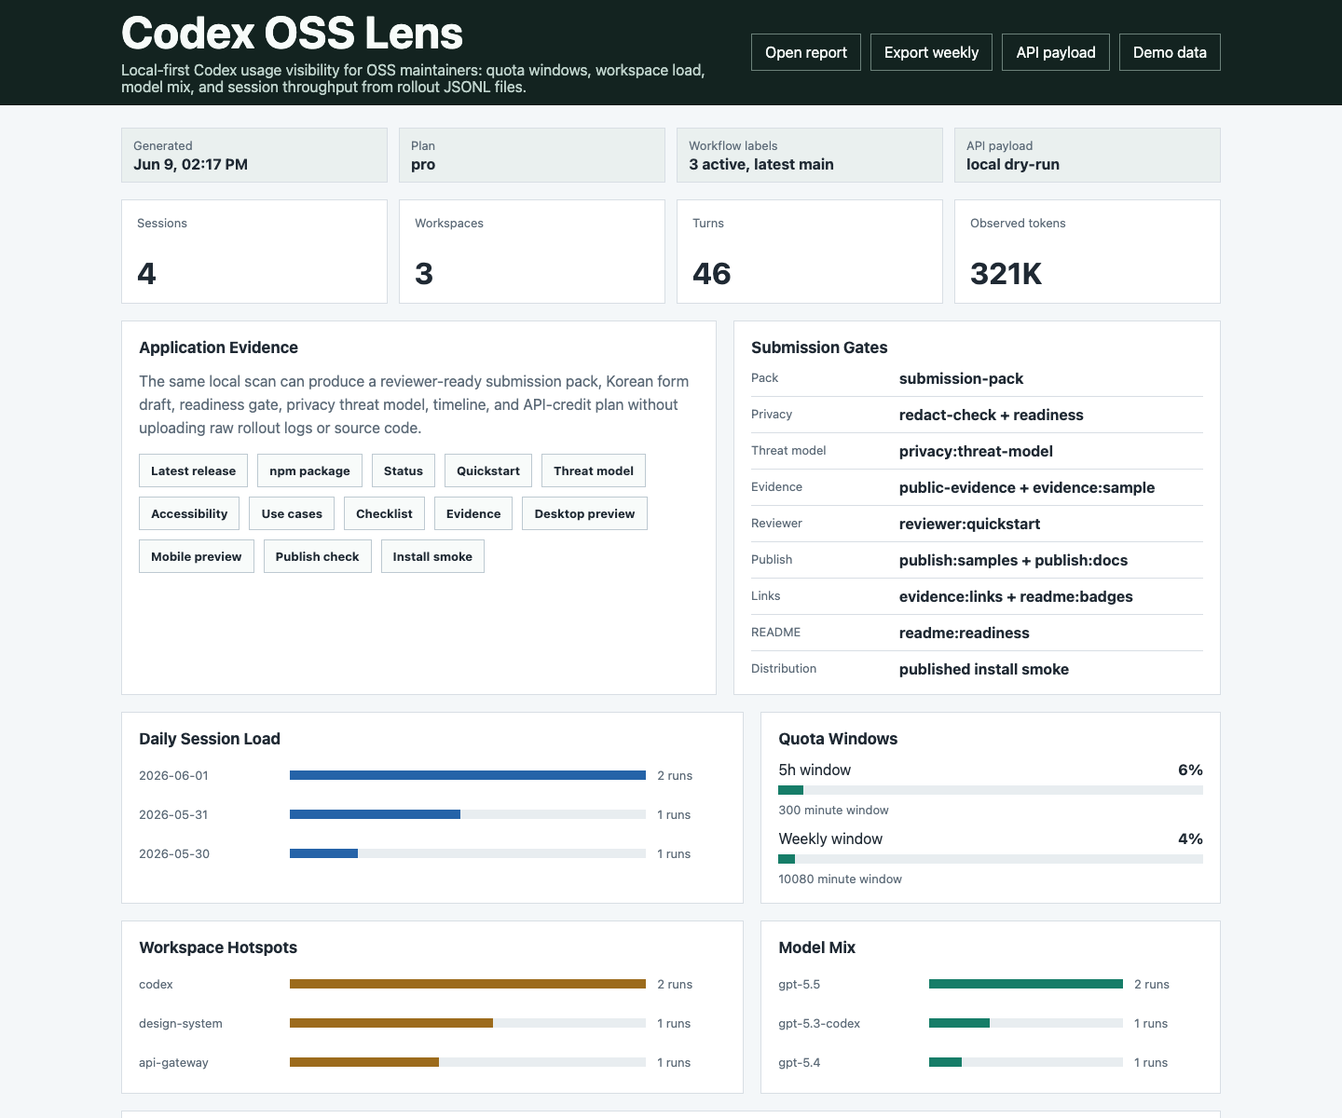
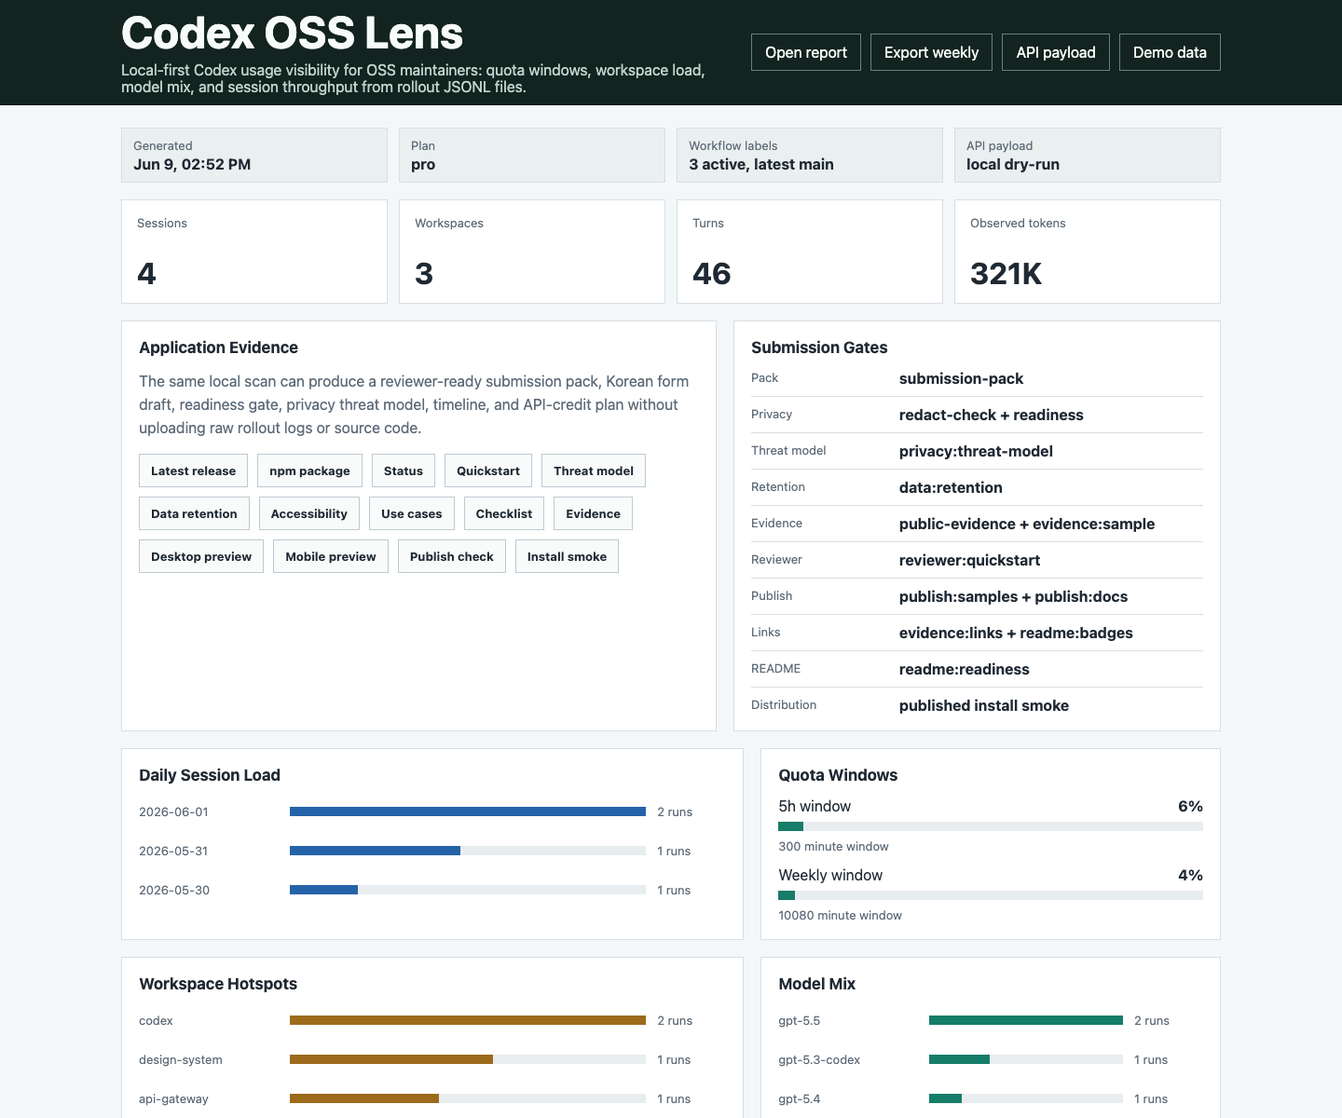
Make data retention reviewable
The privacy model now explains what must not leave the machine, but reviewers also need a clear local-retention and deletion boundary for generated reports, screenshots, packs, and future API responses. This change adds a public data retention policy, makes it first-class reviewer evidence, exposes it in the dashboard, and checks it through CI/submission gates.

Constraint: The project is local-first and dependency-free, so retention checks are repository-owned documentation and structural gates rather than external scanners.

Constraint: Local 1Password SSH signing agent remains unreliable, so this automation commit is unsigned.

Rejected: Fold retention language into the privacy threat model | separate deletion/storage guidance is easier for reviewers and future maintainers to audit.

Confidence: high

Scope-risk: moderate

Directive: Keep docs/data-retention.md, public evidence links, dashboard evidence links, and data:retention aligned whenever generated artifact storage or deletion behavior changes.

Tested: npm run data:retention && npm run dashboard:readiness && npm run evidence:sample && npm run form-draft:sample && npm run final-copy:check && npm run application:status && npm run reviewer:quickstart && npm run publish:docs && npm run readme:readiness && npm run ci:readiness && npm test
[…]

diff --git a/src/cli.js b/src/cli.js
@@ -185,6 +185,7 @@ async function main() {
         adoptionPlanUrl: options.adoptionPlanUrl,
         maintenancePolicyUrl: options.maintenancePolicyUrl,
         privacyThreatModelUrl: options.privacyThreatModelUrl,
+        dataRetentionUrl: options.dataRetentionUrl,
         accessibilityUrl: options.accessibilityUrl,
         apiWorkflowUrl: options.apiWorkflowUrl,
         useCasesUrl: options.useCasesUrl,
@@ -278,6 +279,7 @@ function parseArgs(args) {
     else if (arg === "--adoption-plan-url") options.adoptionPlanUrl = args[++i];
     else if (arg === "--maintenance-policy-url") options.maintenancePolicyUrl = args[++i];
     else if (arg === "--privacy-threat-model-url") options.privacyThreatModelUrl = args[++i];
+    else if (arg === "--data-retention-url") options.dataRetentionUrl = args[++i];
     else if (arg === "--accessibility-url") options.accessibilityUrl = args[++i];
     else if (arg === "--api-workflow-url") options.apiWorkflowUrl = args[++i];
     else if (arg === "--npm-package") options.npmPackage = args[++i];
@@ -387,11 +389,11 @@ Usage:
   codex-oss-lens scorecard --manifest manifest.json [--readiness readiness.json] [--api-plan api-plan.json] [--timeline timeline.json] [--out scorecard.json] [--markdown scorecard.md]
   codex-oss-lens evidence-index --manifest manifest.json [--readiness readiness.json] [--api-plan api-plan.json] [--timeline timeline.json] [--scorecard scorecard.json] [--form-draft form-draft.json] [--out evidence-index.json] [--markdown evidence-index.md] [--html evidence-index.html]
   codex-oss-lens submission-pack [--codex-home ~/.codex] [--repo owner/name] [--out-dir codex-submission-pack] [--demo]
-  codex-oss-lens form-draft --manifest manifest.json [--readiness readiness.json] [--api-plan api-plan.json] [--scorecard scorecard.json] [--repo url] [--release-url url] [--npm-package url] [--roadmap-url url] [--application-status-url url] [--reviewer-quickstart-url url] [--release-provenance-url url] [--adoption-plan-url url] [--maintenance-policy-url url] [--privacy-threat-model-url url] [--accessibility-url url] [--api-workflow-url url] [--use-cases-url url] [--final-checklist-url url] [--final-copy-url url] [--form-draft-sample-url url] [--public-evidence-sample-url url] [--dashboard-preview-url url] [--mobile-dashboard-preview-url url] [--publish-check-sample-url url] [--install-smoke-sample-url url] [--node-ci-url url] [--published-smoke-url url] [--out form-draft.json] [--markdown form-draft.md]
+  codex-oss-lens form-draft --manifest manifest.json [--readiness readiness.json] [--api-plan api-plan.json] [--scorecard scorecard.json] [--repo url] [--release-url url] [--npm-package url] [--roadmap-url url] [--application-status-url url] [--reviewer-quickstart-url url] [--release-provenance-url url] [--adoption-plan-url url] [--maintenance-policy-url url] [--privacy-threat-model-url url] [--data-retention-url url] [--accessibility-url url] [--api-workflow-url url] [--use-cases-url url] [--final-checklist-url url] [--final-copy-url url] [--form-draft-sample-url url] [--public-evidence-sample-url url] [--dashboard-preview-url url] [--mobile-dashboard-preview-url url] [--publish-check-sample-url url] [--install-smoke-sample-url url] [--node-ci-url url] [--published-smoke-url url] [--out form-draft.json] [--markdown form-draft.md]
   codex-oss-lens pack-validate <submission-pack-dir> [--min-score 75] [--out pack-validation.json] [--markdown pack-validation.md]
   codex-oss-lens publish-check [--package-json package.json] [--out publish-check.json] [--markdown publish-check.md]
   codex-oss-lens install-smoke [--package codex-oss-lens] [--version latest] [--bin codex-oss-lens] [--out install-smoke.json] [--markdown install-smoke.md]
-  codex-oss-lens public-evidence [--repo url] [--release-url url] [--npm-package url] [--roadmap-url url] [--application-status-url url] [--reviewer-quickstart-url url] [--release-provenance-url url] [--adoption-plan-url url] [--maintenance-policy-url url] [--privacy-threat-model-url url] [--accessibility-url url] [--api-workflow-url url] [--use-cases-url url] [--final-checklist-url url] [--final-copy-url url] [--form-draft-sample-url url] [--public-evidence-sample-url url] [--dashboard-preview-url url] [--mobile-dashboard-preview-url url] [--publish-check-sample-url url] [--install-smoke-sample-url url] [--node-ci-url url] [--published-smoke-url url] [--out public-evidence.json] [--markdown public-evidence.md]
+  codex-oss-lens public-evidence [--repo url] [--release-url url] [--npm-package url] [--roadmap-url url] [--application-status-url url] [--reviewer-quickstart-url url] [--release-provenance-url url] [--adoption-plan-url url] [--maintenance-policy-url url] [--privacy-threat-model-url url] [--data-retention-url url] [--accessibility-url url] [--api-workflow-url url] [--use-cases-url url] [--final-checklist-url url] [--final-copy-url url] [--form-draft-sample-url url] [--public-evidence-sample-url url] [--dashboard-preview-url url] [--mobile-dashboard-preview-url url] [--publish-check-sample-url url] [--install-smoke-sample-url url] [--node-ci-url url] [--published-smoke-url url] [--out public-evidence.json] [--markdown public-evidence.md]
   codex-oss-lens serve [--codex-home ~/.codex] [--port 5057] [--demo]
   codex-oss-lens demo [--out report.json]
 

diff --git a/test/public-evidence.test.js b/test/public-evidence.test.js
@@ -18,6 +18,7 @@ test("builds public evidence with required links and manual fields", () => {
   assert.match(evidence.publicLinks.adoptionPlanUrl, /docs\/adoption-plan\.md$/);
   assert.match(evidence.publicLinks.maintenancePolicyUrl, /docs\/maintenance-policy\.md$/);
   assert.match(evidence.publicLinks.privacyThreatModelUrl, /docs\/privacy-threat-model\.md$/);
+  assert.match(evidence.publicLinks.dataRetentionUrl, /docs\/data-retention\.md$/);
   assert.match(evidence.publicLinks.accessibilityUrl, /docs\/accessibility\.md$/);
   assert.ok(evidence.proofPoints.some((item) => item.id === "publishedSmoke"));
   assert.ok(evidence.proofPoints.some((item) => item.id === "applicationStatus"));
@@ -26,6 +27,7 @@ test("builds public evidence with required links and manual fields", () => {
   assert.ok(evidence.proofPoints.some((item) => item.id === "adoptionPlan"));
   assert.ok(evidence.proofPoints.some((item) => item.id === "maintenancePolicy"));
   assert.ok(evidence.proofPoints.some((item) => item.id === "privacyThreatModel"));
+  assert.ok(evidence.proofPoints.some((item) => item.id === "dataRetention"));
   assert.ok(evidence.proofPoints.some((item) => item.id === "accessibility"));
   assert.ok(evidence.proofPoints.some((item) => item.id === "finalChecklist"));
   assert.ok(evidence.proofPoints.some((item) => item.id === "finalCopy"));
@@ -77,6 +79,8 @@ test("CLI accepts reviewer link overrides for public evidence", async () => {
     "https://github.com/example/project/blob/main/docs/maintenance-policy.md",
     "--privacy-threat-model-url",
     "https://github.com/example/project/blob/main/docs/privacy-threat-model.md",
+    "--data-retention-url",
+    "https://github.com/example/project/blob/main/docs/data-retention.md",
     "--accessibility-url",
     "https://github.com/example/project/blob/main/docs/accessibility.md",
     "--api-workflow-url",
@@ -114,6 +118,7 @@ test("CLI accepts reviewer link overrides for public evidence", async () => {
   assert.equal(evidence.publicLinks.adoptionPlanUrl, "https://github.com/example/project/blob/main/docs/adoption-plan.md");
   assert.equal(evidence.publicLinks.maintenancePolicyUrl, "https://github.com/example/project/blob/main/docs/maintenance-policy.md");
   assert.equal(evidence.publicLinks.privacyThreatModelUrl, "https://github.com/example/project/blob/main/docs/privacy-threat-model.md");
+  assert.equal(evidence.publicLinks.dataRetentionUrl, "https://github.com/example/project/blob/main/docs/data-retention.md");
   assert.equal(evidence.publicLinks.accessibilityUrl, "https://github.com/example/project/blob/main/docs/accessibility.md");
   assert.equal(evidence.publicLinks.finalChecklistUrl, "https://github.com/example/project/blob/main/docs/final-submission-checklist.md");
   assert.equal(evidence.publicLinks.formDraftSampleUrl, "https://github.com/example/project/blob/main/examples/form-draft.sample.md");

diff --git a/scripts/check-data-retention-readiness.js b/scripts/check-data-retention-readiness.js
@@ -1,0 +1,52 @@
+#!/usr/bin/env node
+import { promises as fs } from "node:fs";
+
+const files = {
+  retention: await fs.readFile("docs/data-retention.md", "utf8"),
+  threatModel: await fs.readFile("docs/privacy-threat-model.md", "utf8"),
+  status: await fs.readFile("docs/application-status.md", "utf8"),
+  reviewer: await fs.readFile("docs/reviewer-quickstart.md", "utf8"),
+  checklist: await fs.readFile("docs/final-submission-checklist.md", "utf8"),
+  readme: await fs.readFile("README.md", "utf8"),
+  dashboard: await fs.readFile("public/index.html", "utf8"),
+  workflow: await fs.readFile(".github/workflows/test.yml", "utf8"),
+};
+
+let failures = 0;
+
+requireText("retention", "# Data Retention", "title");
+requireText("retention", "does not run a hosted service", "hosted-service boundary");
+requireText("retention", "does not move, upload, or delete", "local input boundary");
+requireText("retention", "Private full-path reports created with `--show-paths`", "private show-paths retention");
+requireText("retention", "Generated local reports are excluded from the npm package allowlist", "package allowlist boundary");
+requireText("retention", "npm run data:retention", "self gate command");
+requireText("retention", "npm run public:redaction", "public redaction command");
+requireText("retention", "Delete temporary `codex-brief/` or `codex-submission-pack/` folders", "temporary folder deletion");
+requireText("retention", "Do not commit generated artifacts outside the package allowlist", "commit boundary");
+requireText("threatModel", "docs/data-retention.md", "threat-model retention link");
+requireText("status", "Data retention | Ready", "application status row");
+requireText("status", "npm run data:retention", "application status command");
+requireText("reviewer", "docs/data-retention.md", "reviewer retention link");
+requireText("checklist", "docs/data-retention.md", "final checklist retention link");
+requireText("checklist", "npm run data:retention", "final checklist gate");
+requireText("readme", "docs/data-retention.md", "README retention link");
+requireText("readme", "npm run data:retention", "README retention gate");
+requireText("dashboard", "docs/data-retention.md", "dashboard retention link");
+requireText("dashboard", "data:retention", "dashboard retention gate");
+requireText("workflow", "npm run data:retention", "CI retention gate");
+
+if (failures) {
+  console.error(`Data retention readiness check failed for ${failures} requirement(s).`);
+  process.exit(1);
+}
+
+console.log("pass dataRetentionReadiness");
+
+function requireText(fileKey, needle, label) {
+  if (files[fileKey].includes(needle)) {
+    console.log(`pass ${label}`);
+    return;
+  }
+  console.error(`fail missing ${label}: ${needle}`);
+  failures += 1;
+}

diff --git a/src/public-evidence.js b/src/public-evidence.js
@@ -9,6 +9,7 @@ const DEFAULTS = {
   adoptionPlanUrl: "https://github.com/dbunk903/codex-oss-lens/blob/main/docs/adoption-plan.md",
   maintenancePolicyUrl: "https://github.com/dbunk903/codex-oss-lens/blob/main/docs/maintenance-policy.md",
   privacyThreatModelUrl: "https://github.com/dbunk903/codex-oss-lens/blob/main/docs/privacy-threat-model.md",
+  dataRetentionUrl: "https://github.com/dbunk903/codex-oss-lens/blob/main/docs/data-retention.md",
   accessibilityUrl: "https://github.com/dbunk903/codex-oss-lens/blob/main/docs/accessibility.md",
   apiWorkflowUrl: "https://github.com/dbunk903/codex-oss-lens/blob/main/docs/api-credit-workflow.md",
   useCasesUrl: "https://github.com/dbunk903/codex-oss-lens/blob/main/docs/maintainer-use-cases.md",
@@ -52,6 +53,7 @@ export function buildPublicEvidence(options = {}) {
       proof("adoptionPlan", "Adoption plan documents public validation without asking for private Codex content.", links.adoptionPlanUrl),
       proof("maintenancePolicy", "Maintenance policy documents triage cadence, release gates, and privacy boundaries.", links.maintenancePolicyUrl),
       proof("privacyThreatModel", "Privacy threat model records protected inputs, shareable outputs, and API opt-in boundaries.", links.privacyThreatModelUrl),
+      proof("dataRetention", "Data retention guidance documents local artifact storage, deletion, and public sharing boundaries.", links.dataRetentionUrl),
       proof("accessibility", "Accessibility notes document keyboard, landmark, viewport, and reviewer screenshot expectations.", links.accessibilityUrl),
       proof("apiCreditWorkflow", "API-credit workflow keeps raw logs local and sends aggregate opt-in payloads.", links.apiWorkflowUrl),
       proof("maintainerUseCases", "Maintainer use cases document weekly review, evidence, privacy, and package confidence.", links.useCasesUrl),
@@ -87,6 +89,7 @@ function compactLinks(options) {
     ...(options.adoptionPlanUrl ? { adoptionPlanUrl: options.adoptionPlanUrl } : {}),
     ...(options.maintenancePolicyUrl ? { maintenancePolicyUrl: options.maintenancePolicyUrl } : {}),
     ...(options.privacyThreatModelUrl ? { privacyThreatModelUrl: options.privacyThreatModelUrl } : {}),
+    ...(options.dataRetentionUrl ? { dataRetentionUrl: options.dataRetentionUrl } : {}),
     ...(options.accessibilityUrl ? { accessibilityUrl: options.accessibilityUrl } : {}),
     ...(options.apiWorkflowUrl ? { apiWorkflowUrl: options.apiWorkflowUrl } : {}),
     ...(options.useCasesUrl ? { useCasesUrl: options.useCasesUrl } : {}),

diff --git a/public/index.html b/public/index.html
@@ -437,6 +437,7 @@
               <a class="link-button" href="https://github.com/dbunk903/codex-oss-lens/blob/main/docs/application-status.md">Status</a>
               <a class="link-button" href="https://github.com/dbunk903/codex-oss-lens/blob/main/docs/reviewer-quickstart.md">Quickstart</a>
               <a class="link-button" href="https://github.com/dbunk903/codex-oss-lens/blob/main/docs/privacy-threat-model.md">Threat model</a>
+              <a class="link-button" href="https://github.com/dbunk903/codex-oss-lens/blob/main/docs/data-retention.md">Data retention</a>
               <a class="link-button" href="https://github.com/dbunk903/codex-oss-lens/blob/main/docs/accessibility.md">Accessibility</a>
               <a class="link-button" href="https://github.com/dbunk903/codex-oss-lens/blob/main/docs/maintainer-use-cases.md">Use cases</a>
               <a class="link-button" href="https://github.com/dbunk903/codex-oss-lens/blob/main/docs/final-submission-checklist.md">Checklist</a>
@@ -453,6 +454,7 @@
               <li><span class="label">Pack</span><strong>submission-pack</strong></li>
               <li><span class="label">Privacy</span><strong>redact-check + readiness</strong></li>
               <li><span class="label">Threat model</span><strong>privacy:threat-model</strong></li>
+              <li><span class="label">Retention</span><strong>data:retention</strong></li>
               <li><span class="label">Evidence</span><strong>public-evidence + evidence:sample</strong></li>
               <li><span class="label">Reviewer</span><strong>reviewer:quickstart</strong></li>
               <li><span class="label">Publish</span><strong>publish:samples + publish:docs</strong></li>

diff --git a/test/form-draft.test.js b/test/form-draft.test.js
@@ -25,6 +25,7 @@ test("builds copy-ready Korean OSS support form draft", () => {
       adoptionPlanUrl: "https://github.com/dbunk903/codex-oss-lens/blob/main/docs/adoption-plan.md",
       maintenancePolicyUrl: "https://github.com/dbunk903/codex-oss-lens/blob/main/docs/maintenance-policy.md",
       privacyThreatModelUrl: "https://github.com/dbunk903/codex-oss-lens/blob/main/docs/privacy-threat-model.md",
+      dataRetentionUrl: "https://github.com/dbunk903/codex-oss-lens/blob/main/docs/data-retention.md",
       accessibilityUrl: "https://github.com/dbunk903/codex-oss-lens/blob/main/docs/accessibility.md",
     },
   });
@@ -36,6 +37,7 @@ test("builds copy-ready Korean OSS support form draft", () => {
   assert.equal(draft.publicLinks.adoptionPlan, "https://github.com/dbunk903/codex-oss-lens/blob/main/docs/adoption-plan.md");
   assert.equal(draft.publicLinks.maintenancePolicy, "https://github.com/dbunk903/codex-oss-lens/blob/main/docs/maintenance-policy.md");
   assert.equal(draft.publicLinks.privacyThreatModel, "https://github.com/dbunk903/codex-oss-lens/blob/main/docs/privacy-threat-model.md");
+  assert.equal(draft.publicLinks.dataRetention, "https://github.com/dbunk903/codex-oss-lens/blob/main/docs/data-retention.md");
   assert.equal(draft.publicLinks.accessibility, "https://github.com/dbunk903/codex-oss-lens/blob/main/docs/accessibility.md");
   assert.ok(draft.requiredManualFields.includes("Terms review and final submit"));
   assert.ok(draft.fields.repositoryFit.chars <= 500);

diff --git a/scripts/check-application-status.js b/scripts/check-application-status.js
@@ -34,6 +34,7 @@ requireText("npm run adoption:readiness", "adoption readiness gate command");
 requireText("npm run maintenance:readiness", "maintenance readiness gate command");
 requireText("npm run privacy:threat-model", "privacy threat model gate command");
 requireText("npm run accessibility:readiness", "accessibility readiness gate command");
+requireText("npm run data:retention", "data retention gate command");
 requireText("npm run evidence:links", "public link health gate command");
 requireText("npm run readme:badges", "README badge gate command");
 requireText("npm run readme:readiness", "README readiness gate command");
@@ -58,6 +59,7 @@ requireText("Adoption readiness | Ready", "adoption readiness row");
 requireText("Maintenance readiness | Ready", "maintenance readiness row");
 requireText("Privacy threat model | Ready", "privacy threat model row");
 requireText("Accessibility readiness | Ready", "accessibility readiness row");
+requireText("Data retention | Ready", "data retention row");
 requireText("Visual previews | Ready", "visual previews row");
 requireText("Public link health | Ready", "public link health row");
 requireText("public preview PNG dimensions", "public preview PNG dimensions");

diff --git a/scripts/check-dashboard-readiness.js b/scripts/check-dashboard-readiness.js
@@ -14,6 +14,9 @@ requireText("privacy threat model", "privacy threat model positioning");
 requireText("privacy:threat-model", "privacy threat model gate");
 requireText("docs/accessibility.md", "dashboard accessibility link");
 requireText("Accessibility", "dashboard accessibility label");
+requireText("docs/data-retention.md", "dashboard data retention link");
+requireText("Data retention", "dashboard data retention label");
+requireText("data:retention", "dashboard data retention gate");
 requireText("public-evidence + evidence:sample", "public evidence sample gate");
 requireText("reviewer:quickstart", "reviewer quickstart gate");
 requireText("publish:samples + publish:docs", "publish gate");
@@ -29,6 +32,7 @@ for (const [label, url] of Object.entries({
   applicationStatusUrl: evidence.publicLinks.applicationStatusUrl,
   reviewerQuickstartUrl: evidence.publicLinks.reviewerQuickstartUrl,
   privacyThreatModelUrl: evidence.publicLinks.privacyThreatModelUrl,
+  dataRetentionUrl: evidence.publicLinks.dataRetentionUrl,
   accessibilityUrl: evidence.publicLinks.accessibilityUrl,
   finalChecklistUrl: evidence.publicLinks.finalChecklistUrl,
   publicEvidenceSampleUrl: evidence.publicLinks.publicEvidenceSampleUrl,

diff --git a/scripts/check-publishing-docs.js b/scripts/check-publishing-docs.js
@@ -20,6 +20,7 @@ requirePublishingText("npm run adoption:readiness", "adoption readiness gate");
 requirePublishingText("npm run maintenance:readiness", "maintenance readiness gate");
 requirePublishingText("npm run privacy:threat-model", "privacy threat model gate");
 requirePublishingText("npm run accessibility:readiness", "accessibility readiness gate");
+requirePublishingText("npm run data:retention", "data retention gate");
 requirePublishingText("npm run readme:readiness", "README readiness gate");
 requirePublishingText("node src/cli.js publish-check --markdown publish-check.md", "publish check command");
 requirePublishingText("npm publish --access public --otp <6-digit-code>", "OTP publish command");
@@ -52,6 +53,7 @@ requireChecklistText("adoption:readiness", "adoption readiness evidence");
 requireChecklistText("maintenance:readiness", "maintenance readiness evidence");
 requireChecklistText("privacy:threat-model", "privacy threat model evidence");
 requireChecklistText("accessibility:readiness", "accessibility readiness evidence");
+requireChecklistText("data:retention", "data retention evidence");
 requireChecklistText("readme:readiness", "README readiness evidence");
 
 if (failures) {

diff --git a/scripts/check-readme-readiness.js b/scripts/check-readme-readiness.js
@@ -22,6 +22,7 @@ requireText("npm run adoption:readiness", "adoption readiness gate");
 requireText("npm run maintenance:readiness", "maintenance readiness gate");
 requireText("npm run privacy:threat-model", "privacy threat model gate");
 requireText("npm run accessibility:readiness", "accessibility readiness gate");
+requireText("npm run data:retention", "data retention gate");
 requireText("npm run public:redaction", "public redaction gate");
 requireText("npm run evidence:sample", "public evidence sample gate");
 requireText("npm run evidence:links", "public link health gate");
@@ -34,6 +35,7 @@ requireText("docs/adoption-plan.md", "adoption plan link");
 requireText("docs/maintenance-policy.md", "maintenance policy link");
 requireText("docs/privacy-threat-model.md", "privacy threat model link");
 requireText("docs/accessibility.md", "accessibility link");
+requireText("docs/data-retention.md", "data retention link");
 requireText("SUPPORT.md", "support policy link");
 requireText("CODE_OF_CONDUCT.md", "code of conduct link");
 requireText("[MIT](LICENSE)", "license link");

diff --git a/src/form-draft.js b/src/form-draft.js
@@ -21,6 +21,7 @@ export function buildFormDraft({ manifest, readiness, apiPlan, scorecard, links 
       adoptionPlan: links.adoptionPlanUrl || "",
       maintenancePolicy: links.maintenancePolicyUrl || "",
       privacyThreatModel: links.privacyThreatModelUrl || "",
+      dataRetention: links.dataRetentionUrl || "",
       accessibility: links.accessibilityUrl || "",
       apiCreditWorkflow: links.apiWorkflowUrl || "",
       maintainerUseCases: links.useCasesUrl || "",
@@ -115,6 +116,7 @@ const PUBLIC_LINK_LABELS = {
   adoptionPlan: "Adoption plan",
   maintenancePolicy: "Maintenance policy",
   privacyThreatModel: "Privacy threat model",
+  dataRetention: "Data retention",
   accessibility: "Accessibility notes",
   apiCreditWorkflow: "API credit workflow",
   maintainerUseCases: "Maintainer use cases",

diff --git a/scripts/check-ci-readiness.js b/scripts/check-ci-readiness.js
@@ -32,6 +32,7 @@ requireText("npm run adoption:readiness", "adoption readiness check");
 requireText("npm run maintenance:readiness", "maintenance readiness check");
 requireText("npm run privacy:threat-model", "privacy threat model check");
 requireText("npm run accessibility:readiness", "accessibility readiness check");
+requireText("npm run data:retention", "data retention check");
 requireText("npm run public:redaction", "public redaction check");
 requireText("npm run evidence:sample", "public evidence sample check");
 requireText("npm run evidence:links", "public evidence link check");
